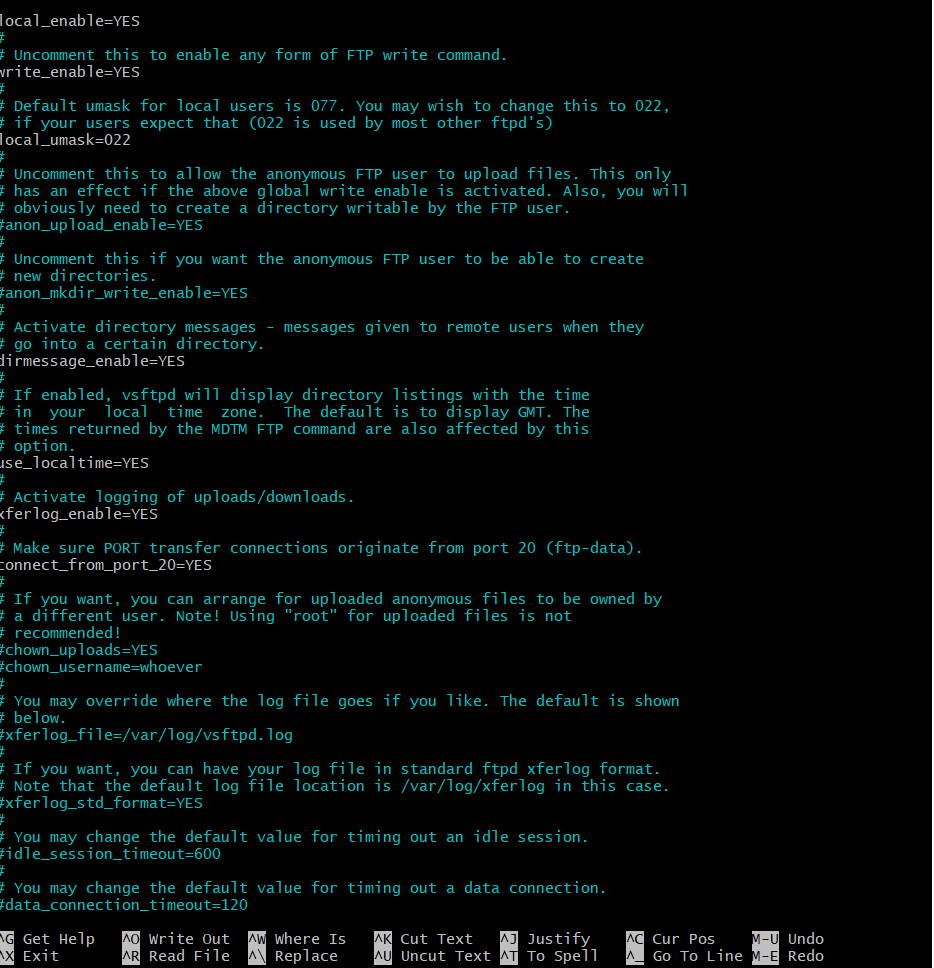
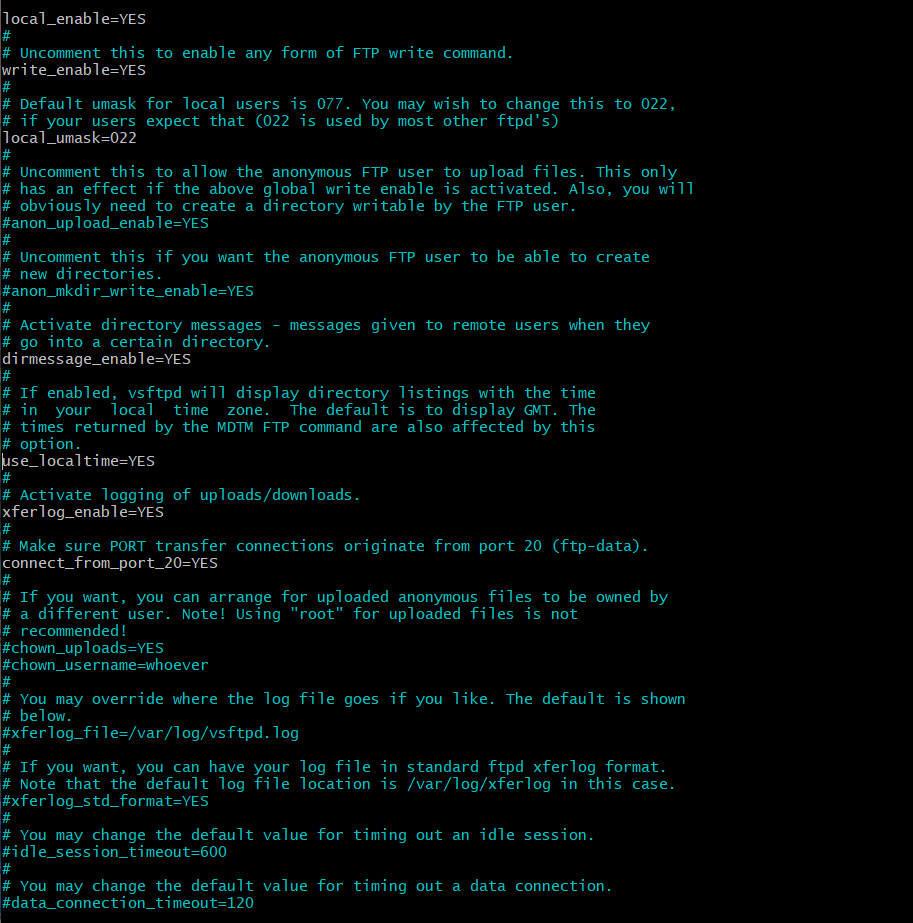
evidencias 5

diff --git a/tarea-5.md b/tarea-5.md
@@ -1,1 +1,27 @@
-# configurar servidor FTP
+# Configurar servidor FTP
+primero deberemos poner este comando para instalar el servicio vsftpd
+
+si no funciona prueba a poner los siguientes comandos
+```bash
+sudo apt-get update
+
+sudo apt-get upgrade
+```
+![instalacion vsftp](capturas/tarea-5/Captura1.PNG)
+
+a continuacion usaremos estos comandos para que el servicio funcione
+![iniciar servicio](capturas/tarea-5/Captura2.PNG)
+
+en el siguiente paso crearemos usuarios para el servicio FTP
+![usuarios](capturas/tarea-5/Captura3.PNG)
+
+deberemos tener las siguientes lineas sin comentar:
+![primera configuracion](capturas/tarea-5/ftpConf1.PNG)
+![segunda configuracion](capturas/tarea-5/ftpConf2.PNG)
+![tercera configuracion](capturas/tarea-5/ftpConf3.PNG)
+
+para que nos funcione deberemos habilitar en nuestro servidor el puerto de entrada de ftp (el 21)
+![puertos](capturas/tarea-5/captura4.PNG)
+
+por ultimo reiniciaremos el servicio y ya podríamos usarlo
+![puertos](capturas/tarea-5/captura5.PNG)
